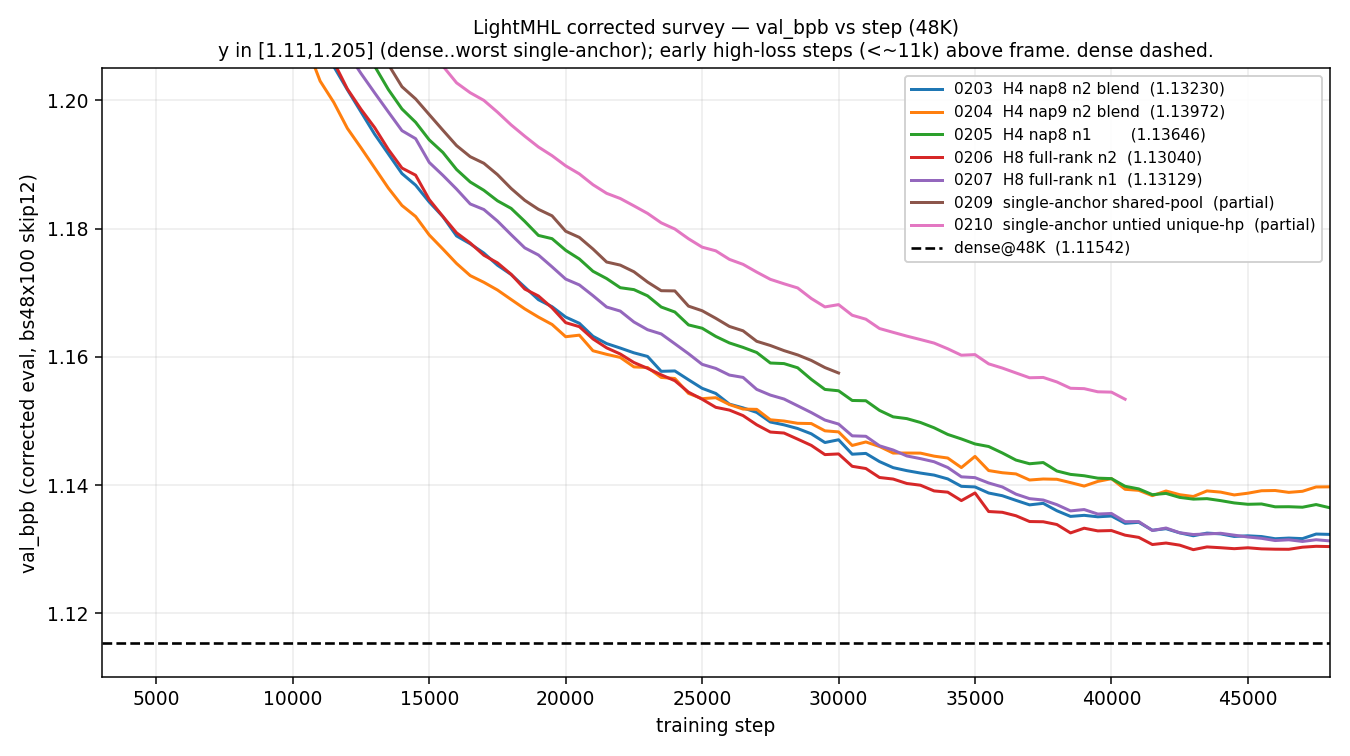
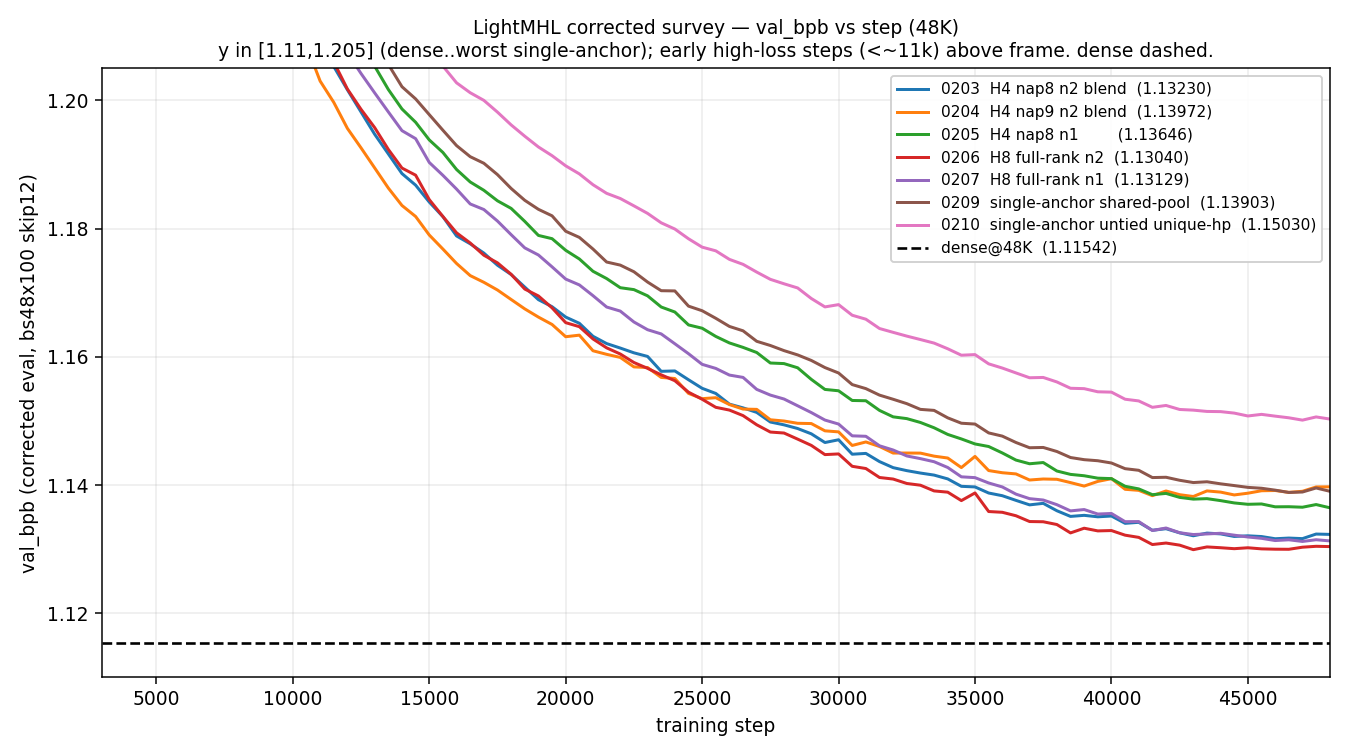
single-anchor finals: 0209 1.139030, 0210 1.150297 — both worse than pair family
0209 (single-anchor shared-global-pool, param-matched 68M): final 1.139030
(+7.05sigma dense, +2.58sigma vs best pair 0206; ~ties worst pair arm 0204).
0210 (untied unique-hp extremum, 57.9M): final 1.150297 (+10.41sigma dense,
+5.94sigma vs 0206) — worst arm in the survey. Single-coordinate sign addressing
underperforms pair-difference addressing across the board, as predicted by the
BH4 offset-cancellation argument + the frozen-non-specializing-addressing lens.
Survey section + all-final survey_val_curves.png (7 arms, last points verified
against CSVs: all step 48000). 0209 artifacts committed; 0210 already safe.

Claude-Session: https://claude.ai/code/session_011kogAUByzrBRnsX7RapTfT

diff --git a/experiments/ffn_replacement/runs_corrected/LIGHTMHL_SURVEY.md b/experiments/ffn_replacement/runs_corrected/LIGHTMHL_SURVEY.md
@@ -1484,3 +1484,17 @@ Reads as a 2×2 (read-out × geometry) plus the capacity point:
 - **The blend is a small net win, not a liability:** n=1 (0205) is +1.24σ *worse* than the n=2 blend at 48K (n=1 only leads in early training). So the top-2 blend adds ~1.2σ.
 - **Full-rank compress helps — but only marginally:** H8 (0206, H·d_in=8·48=384=d_model, no compression) beats H4 by −0.57σ and tracks 0203 a hair ahead the whole way, but it is STILL +4.47σ over dense — it closed only ~11% of the gap. So the compress bottleneck is a *small* contributor, not the explanation.
 - **Net:** no single knob (read-out n, table capacity, compress rank) closes the ~4.5–5σ gap to dense; the effects are all ≲1σ and even the best (0206) plateaus +4.47σ above dense. The gap to a dense MLP is more fundamental than any of these axes. Best LUT-FFN arm to date at 48K = **0206 (H8 n2) 1.130397**. (0207 will complete the H8 n1-vs-n2 cell.) Detail: `exp_g_0206_.../` (run on worker VM 89.169.122.190).
+
+
+## Single-ANCHOR addressing @48K (0209, 0210) — worse than pair-difference, as predicted
+
+Extremum probe of the addressing scheme: each address bit = sign of ONE projected coordinate (bit=1[z[c]>0]) instead of the pair difference (bit=1[z[a]−z[b]>0]). anchor_mode="single" (guarded flag; pairs mode byte-identical). σ=0.00335, dense@48K 1.115420.
+
+| run | design | params | final | vs 0206 (best pair) | vs dense |
+|---|---|---|---|---|---|
+| **0209** | single-anchor SHARED-GLOBAL-pool (compress 384→384, GLOBAL single indices over the full 384-pool shared across all 512 tables, H8 output, n1) | 68,237,574 (param-matched to H8 family) | **1.139030** | +2.58σ | +7.05σ |
+| **0210** | single-anchor UNTIED unique-hyperplane extremum (48 tables, nap8 → a PERMUTATION PARTITION of [0,384), each hyperplane used once; NO decompress, cells store full d_model; n1) | 57,913,350 (smaller, not param-matched) | **1.150297** | +5.94σ | +10.41σ |
+
+- **Single-coordinate sign addressing UNDERPERFORMS pair-difference addressing.** Even the param-matched shared-global-pool 0209 (1.139030) is worse than every pair arm except it roughly ties the worst pair arm 0204 (nap9, 1.139720) — i.e. +2.58σ behind the best pair arm 0206. The untied unique-hp extremum 0210 (1.150297) is the worst arm in the whole survey (+10.41σ dense).
+- Consistent with (a) the BH4-style caveat — a single coordinate's sign does NOT cancel a token-independent code offset, which the pair difference z[a]−z[b] does — and (b) the "Revenge of Monosemanticity" lens (arXiv 2608.24007): our addressing hyperplanes are FROZEN, so tables cannot learn the local specialized directions that give dense MLPs their edge; single-coordinate frozen addressing is the least expressive of all and lands worst.
+- **Takeaway for the line:** don't pursue single-anchor addressing further; the pair difference is the better fixed address. The paper-implied next lever is LEARNABLE addressing directions, not a different fixed scheme. Detail: `exp_g_0209_.../`, `exp_g_0210_.../` (0210 run on the worker VM).
